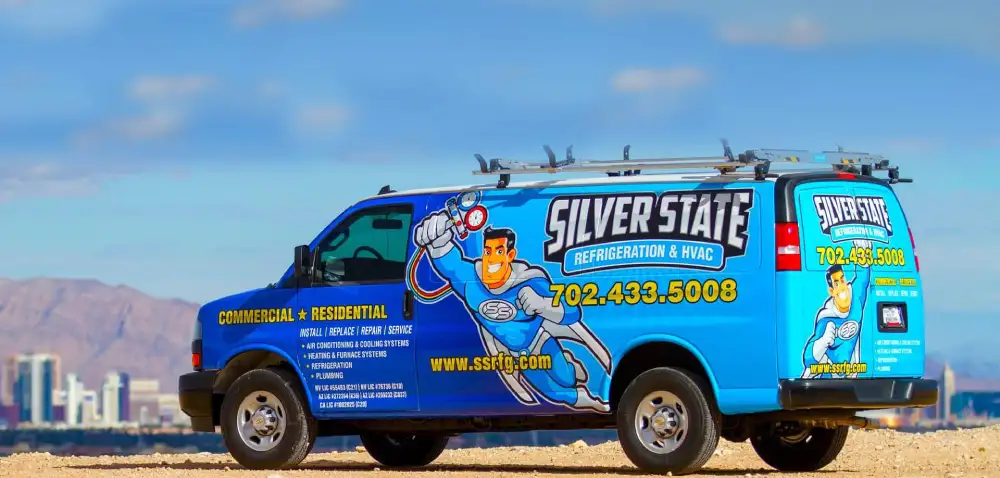
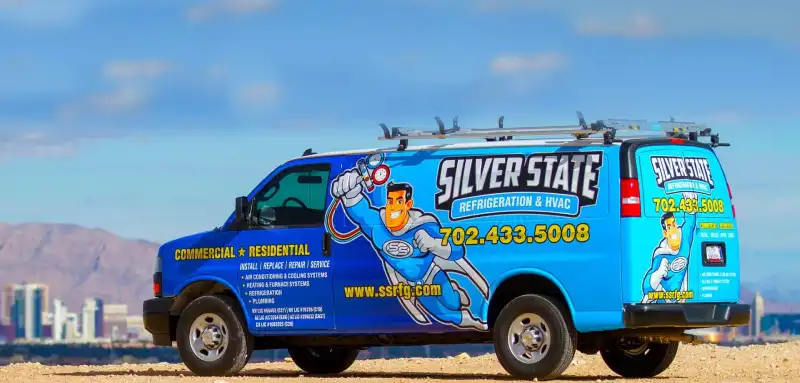
fixing google page speed issues 6

diff --git a/dist/index.html b/dist/index.html
@@ -179,7 +179,7 @@ Book Now
       if (e.key === 'Escape') { closeDeskDrawer(); closeSheet(); }
     });
   })();
-</script> <main id="main">  <section class="relative flex flex-col min-h-[72vh] overflow-hidden"> <!-- BG: only this needs absolute --> <div class="absolute inset-0 -z-10"> <!-- Desktop image — hidden on mobile --> <img src="/_astro/hero-van.Djc6KM41_Z11izie.webp" alt="Silver State Refrigeration &#38; HVAC service van in Las Vegas" class="hidden md:block w-full h-full object-cover object-center" loading="eager" fetchpriority="high" width="1920" height="918" decoding="async"> <!-- Mobile image — hidden on desktop --> <img src="/_astro/hero-van-mobile.OqiDv_Q5_2k25mg.webp" alt="Silver State Refrigeration &#38; HVAC service van in Las Vegas" class="block md:hidden w-full h-full object-cover object-center" loading="eager" fetchpriority="high" width="768" height="367" decoding="async"> <div class="absolute inset-0 bg-gradient-to-b from-black/40 via-black/25 to-black/65"></div> <div class="absolute inset-0 bg-gradient-to-r from-black/75 via-black/45 to-black/10"></div> </div> <!-- Content: container matches nav width, no max-w on text --> <div class="container-site w-full flex flex-col flex-1 py-10 xl:py-20"> <!-- Eyebrow + headline + description + CTAs — constrained to left half --> <div class="flex-1 flex flex-col justify-center max-w-2xl"> <p class="font-body text-sm text-white/60 font-normal tracking-wide mb-4">
+</script> <main id="main">  <section class="relative flex flex-col min-h-[72vh] overflow-hidden"> <!-- BG: only this needs absolute --> <div class="absolute inset-0 -z-10"> <!-- Desktop image — hidden on mobile --> <img src="/_astro/hero-van.Djc6KM41_Z11izie.webp" alt="Silver State Refrigeration &#38; HVAC service van in Las Vegas" class="hidden md:block w-full h-full object-cover object-center" loading="eager" fetchpriority="high" width="1920" height="918" decoding="async"> <!-- Mobile image — hidden on desktop --> <img src="/_astro/hero-van-mobile.CUlBeMUi_jTqXk.webp" alt="Silver State Refrigeration &#38; HVAC service van in Las Vegas" class="block md:hidden w-full h-full object-cover object-center" loading="eager" fetchpriority="high" width="768" height="368" decoding="async"> <div class="absolute inset-0 bg-gradient-to-b from-black/40 via-black/25 to-black/65"></div> <div class="absolute inset-0 bg-gradient-to-r from-black/75 via-black/45 to-black/10"></div> </div> <!-- Content: container matches nav width, no max-w on text --> <div class="container-site w-full flex flex-col flex-1 py-10 xl:py-20"> <!-- Eyebrow + headline + description + CTAs — constrained to left half --> <div class="flex-1 flex flex-col justify-center max-w-2xl"> <p class="font-body text-sm text-white/60 font-normal tracking-wide mb-4">
 NV · CA · AZ · UT · TX — 24/7 Emergency Service
 </p> <h1 class="text-5xl md:text-6xl lg:text-7xl font-display font-bold text-white leading-tight tracking-tight mb-5 max-w-3xl">
 Exceptional Service<br>
